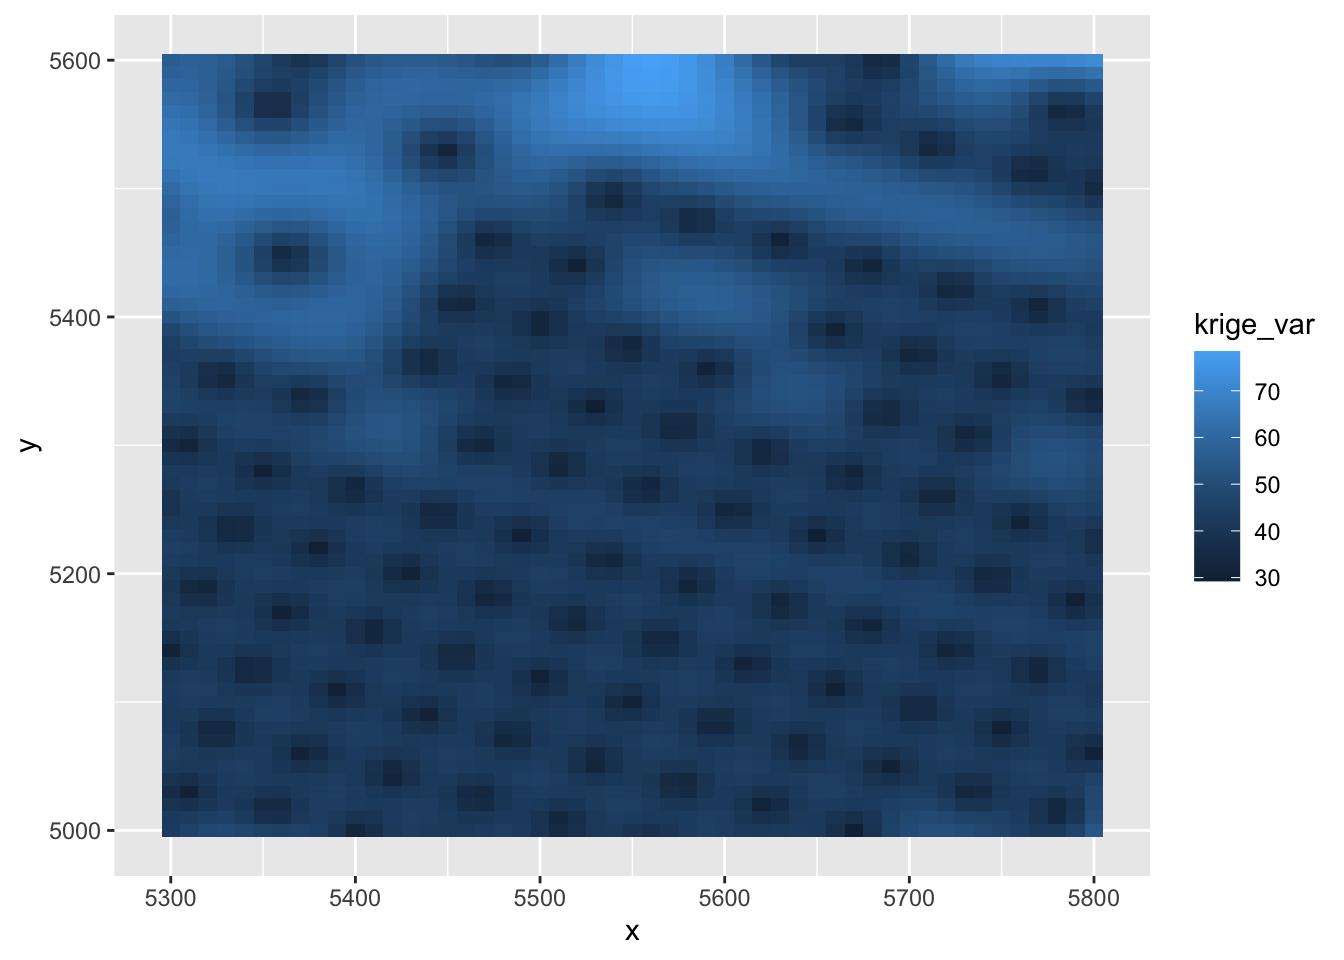
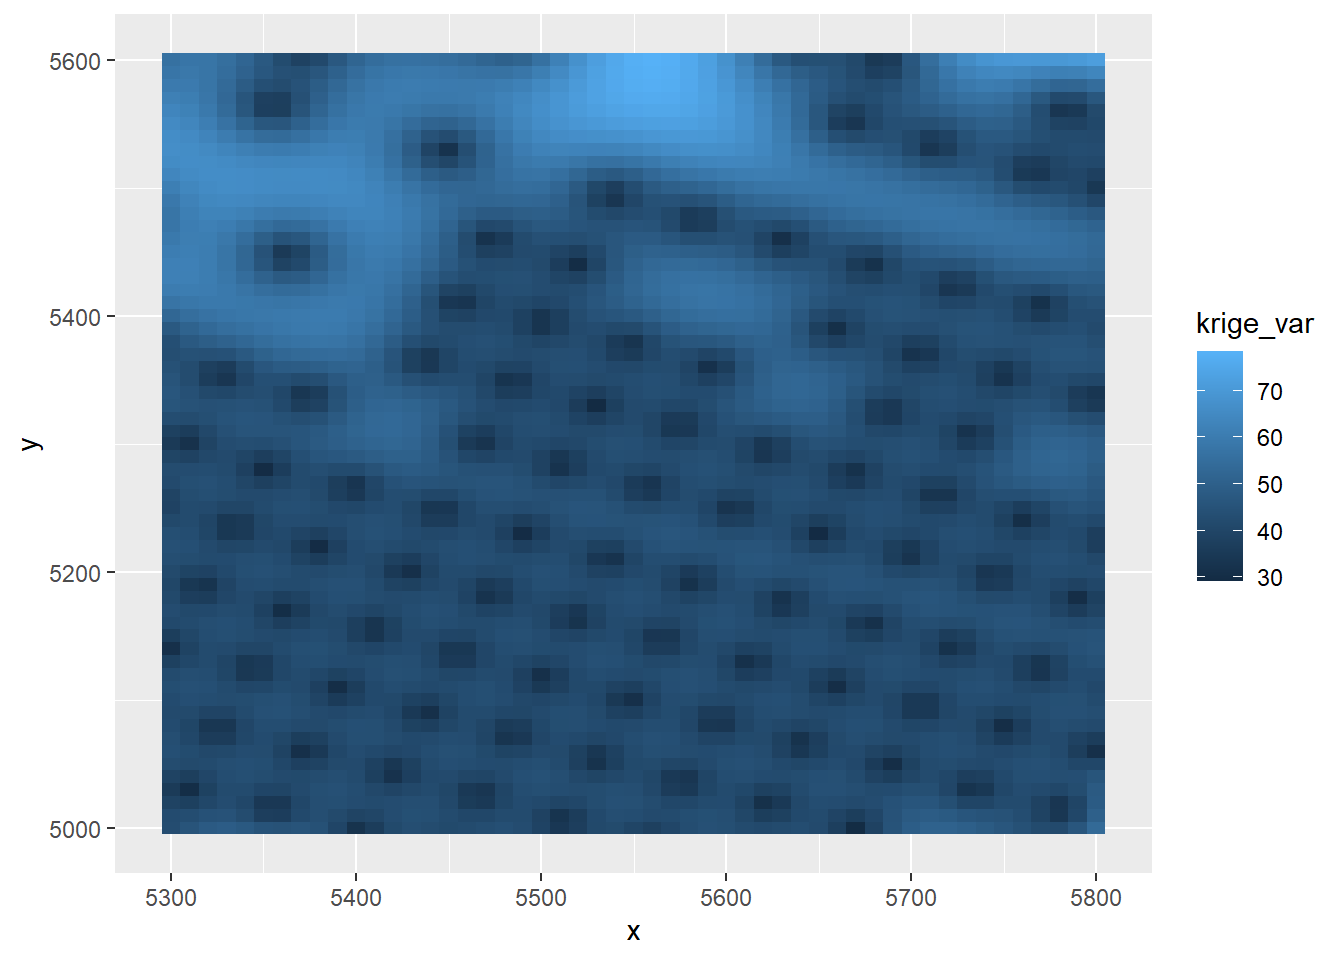
Updated

diff --git a/Week8.html b/Week8.html
@@ -13,7 +13,7 @@
 
 <title>Week 8: Geostatistics–Kriging</title>
 
-<script src="site_libs/header-attrs-2.26/header-attrs.js"></script>
+<script src="site_libs/header-attrs-2.28/header-attrs.js"></script>
 <script src="site_libs/jquery-3.6.0/jquery-3.6.0.min.js"></script>
 <meta name="viewport" content="width=device-width, initial-scale=1" />
 <link href="site_libs/bootstrap-3.3.5/css/cosmo.min.css" rel="stylesheet" />
@@ -246,6 +246,9 @@ $(document).ready(function () {
   <a href="index.html">Home</a>
 </li>
 <li>
+  <a href="Week1.html">Week 1</a>
+</li>
+<li>
   <a href="Week2.html">Week 2</a>
 </li>
 <li>
@@ -318,6 +321,8 @@ id="toc-universal-kriging-covariates"><span
 class="toc-section-number">3.2</span> Universal Kriging:
 covariates</a></li>
 </ul></li>
+<li><a href="#exercise" id="toc-exercise"><span
+class="toc-section-number">4</span> Exercise</a></li>
 </ul>
 </div>
 
@@ -363,7 +368,7 @@ class="math inline">\(\mu(\mathbf{s})\)</span> is a constant (<span
 class="math inline">\(\mu(\mathbf{s})=\mu\)</span>).</p>
 <pre class="r"><code>library(geoR)
 data(ca20)
-fit = likfit(ca20, ini = c(100, 60), trend = &quot;cte&quot;)</code></pre>
+fit = likfit(ca20, ini = c(100, 120), trend = &quot;cte&quot;)</code></pre>
 <p>Secod, we setup the Ordinary Kriging.</p>
 <pre class="r"><code>pred_locs = expand.grid(x = seq(5300, 5800, 10), y = seq(5000,5600, 10))   # new locations s_0 created
 head(pred_locs)     ## Here are the first six locations</code></pre>
@@ -449,6 +454,13 @@ randomly generated <span class="math inline">\(x(\mathbf s_0)\)</span>
 from <em>graltitude = rnorm(10908,mean=5.5)</em>. In practice, you shall
 know <span class="math inline">\(x(\mathbf s_0)\)</span> in advance.</p>
 </div>
+</div>
+<div id="exercise" class="section level1" number="4">
+<h1><span class="header-section-number">4</span> Exercise</h1>
+<p>You can also directly using Kriging formulas from slides to calculate
+the Kriging estimator and the Kriging variance. If you have time, try to
+calculate them using the simple Kriging for the location <span
+class="math inline">\((5300, 5000)\)</span>.</p>
 </div>
 
 
